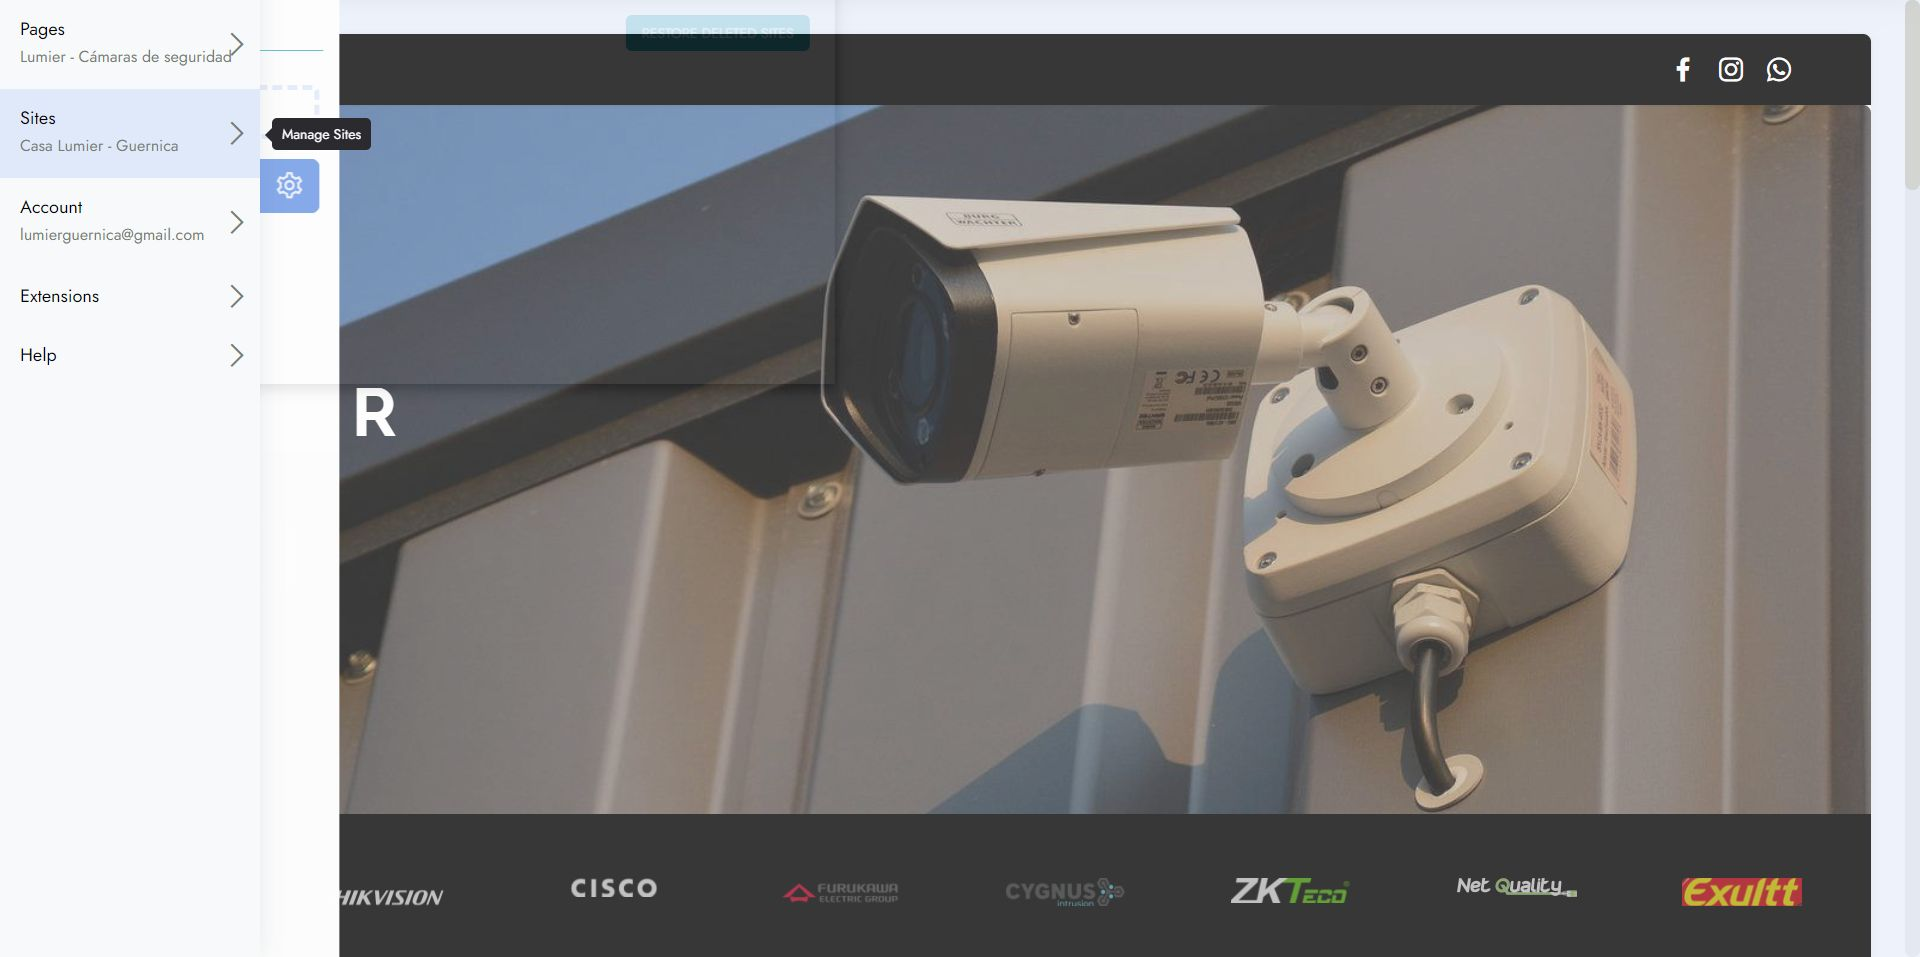
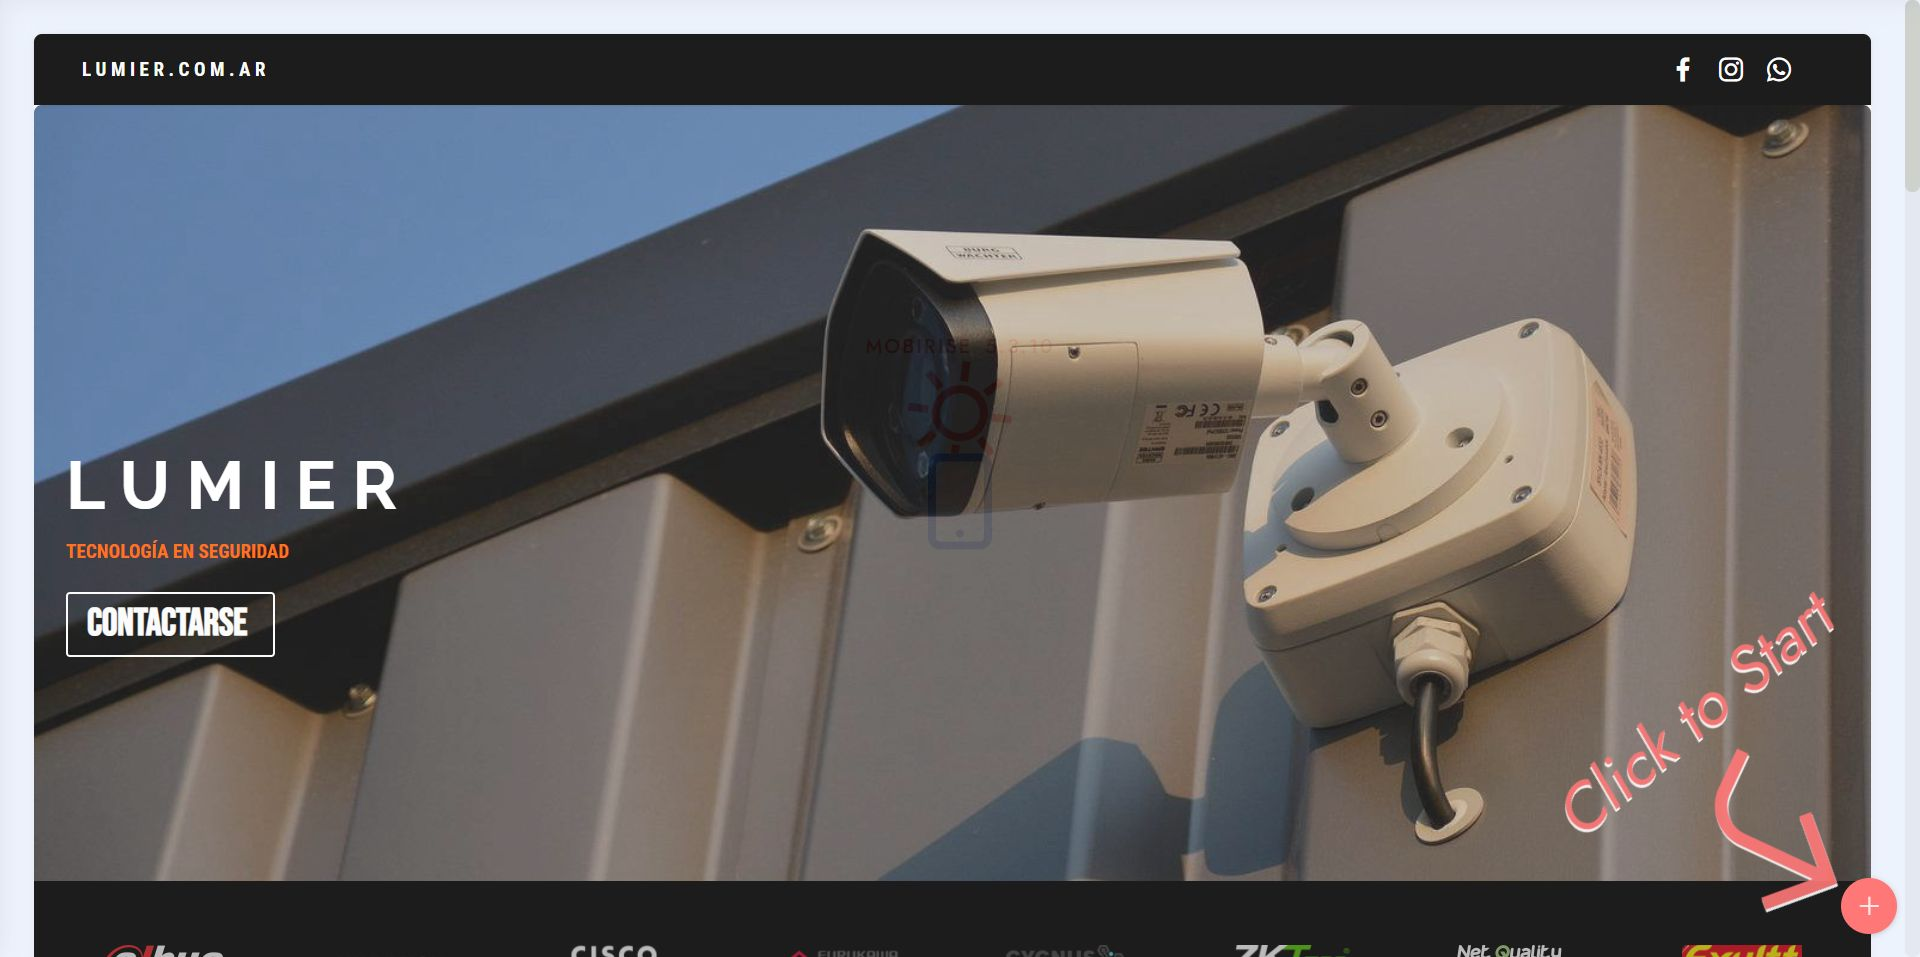
.
.

diff --git a/index.html b/index.html
@@ -59,7 +59,7 @@
         <div class="container-fluid">
             <div class="navbar-brand">
                 
-                <span class="navbar-caption-wrap"><a class="navbar-caption text-white display-7" href="index.html">L U M I E R . C O M . A R</a></span>
+                <span class="navbar-caption-wrap"><a class="navbar-caption text-white display-7" href="index.html">CASAL U M I E R . C O M . A R</a></span>
             </div>
             <button class="navbar-toggler" type="button" data-toggle="collapse" data-target="#navbarSupportedContent" aria-controls="navbarNavAltMarkup" aria-expanded="false" aria-label="Toggle navigation">
                 <div class="hamburger">
@@ -316,7 +316,7 @@
                 </div>
             </div>
             <div class="col-lg-3 offset-lg-1 mbr-form" data-form-type="formoid">
[2 lines of base64/hex data omitted]
                     <div class="row">
                         <div hidden="hidden" data-form-alert="" class="alert alert-success col-12">Gracias por escribirnos, en breve será contactado.</div>
                         <div hidden="hidden" data-form-alert-danger="" class="alert alert-danger col-12">Oops...! some
@@ -572,7 +572,7 @@
                 </div>
             </div>
             <div class="map-wrapper col-12 col-md-6">
-                <div class="google-map"><iframe frameborder="0" style="border:0" src="https://www.google.com/maps/embed/v1/place?key=AIzaSyCZI5F_k6S1k46ujh0SNrapM89f7mJxd30&amp;q=Calle 113 470, Guernica" allowfullscreen=""></iframe></div>
+                <div class="google-map"><iframe frameborder="0" style="border:0" src="https://www.google.com/maps/embed/v1/place?key=AIzaSyCNveGQ9bfpKFwWzQLLftrR9hNiHwdqQG8&amp;q=Calle 113 470, Guernica" allowfullscreen=""></iframe></div>
             </div>
         </div>
     </div>
@@ -627,7 +627,7 @@
             </div>
         </div>
     </div>
-</section><section style="background-color: #fff; font-family: -apple-system, BlinkMacSystemFont, 'Segoe UI', 'Roboto', 'Helvetica Neue', Arial, sans-serif; color:#aaa; font-size:12px; padding: 0; align-items: center; display: flex;"><a href="https://mobirise.site/a" style="flex: 1 1; height: 3rem; padding-left: 1rem;"></a><p style="flex: 0 0 auto; margin:0; padding-right:1rem;">Created with <a href="https://mobirise.site/b" style="color:#aaa;">Mobirise</a> website template</p></section><script src="assets/web/assets/jquery/jquery.min.js"></script>  <script src="assets/popper/popper.min.js"></script>  <script src="assets/tether/tether.min.js"></script>  <script src="assets/bootstrap/js/bootstrap.min.js"></script>  <script src="assets/smoothscroll/smooth-scroll.js"></script>  <script src="assets/viewportchecker/jquery.viewportchecker.js"></script>  <script src="assets/dropdown/js/nav-dropdown.js"></script>  <script src="assets/dropdown/js/navbar-dropdown.js"></script>  <script src="assets/touchswipe/jquery.touch-swipe.min.js"></script>  <script src="assets/mbr-tabs/mbr-tabs.js"></script>  <script src="assets/parallax/jarallax.min.js"></script>  <script src="assets/formstyler/jquery.formstyler.js"></script>  <script src="assets/formstyler/jquery.formstyler.min.js"></script>  <script src="assets/datepicker/jquery.datetimepicker.full.js"></script>  <script src="assets/sociallikes/social-likes.js"></script>  <script src="assets/theme/js/script.js"></script>  <script src="assets/formoid/formoid.min.js"></script>  
+</section><section style="background-color: #fff; font-family: -apple-system, BlinkMacSystemFont, 'Segoe UI', 'Roboto', 'Helvetica Neue', Arial, sans-serif; color:#aaa; font-size:12px; padding: 0; align-items: center; display: flex;"><a href="https://mobirise.site/l" style="flex: 1 1; height: 3rem; padding-left: 1rem;"></a><p style="flex: 0 0 auto; margin:0; padding-right:1rem;">Make a free site - <a href="https://mobirise.site/v" style="color:#aaa;">Try here</a></p></section><script src="assets/web/assets/jquery/jquery.min.js"></script>  <script src="assets/popper/popper.min.js"></script>  <script src="assets/tether/tether.min.js"></script>  <script src="assets/bootstrap/js/bootstrap.min.js"></script>  <script src="assets/smoothscroll/smooth-scroll.js"></script>  <script src="assets/viewportchecker/jquery.viewportchecker.js"></script>  <script src="assets/dropdown/js/nav-dropdown.js"></script>  <script src="assets/dropdown/js/navbar-dropdown.js"></script>  <script src="assets/touchswipe/jquery.touch-swipe.min.js"></script>  <script src="assets/mbr-tabs/mbr-tabs.js"></script>  <script src="assets/parallax/jarallax.min.js"></script>  <script src="assets/formstyler/jquery.formstyler.js"></script>  <script src="assets/formstyler/jquery.formstyler.min.js"></script>  <script src="assets/datepicker/jquery.datetimepicker.full.js"></script>  <script src="assets/sociallikes/social-likes.js"></script>  <script src="assets/theme/js/script.js"></script>  <script src="assets/formoid/formoid.min.js"></script>  
   
   
   <input name="animation" type="hidden">

diff --git a/assets/theme/js/script.js b/assets/theme/js/script.js
@@ -35,4 +35,4 @@ a(this).hasClass("collapsed")&&a(this).find("span.sign").removeClass("mbri-arrow
 d.unbind("click");b.carousel({keyboard:!0});1<b.find(".carousel-item.active").length&&(b.find(".carousel-item.active").eq(1).removeClass("active"),b.find(".carousel-control li.active").eq(1).removeClass("active"))})}));if(e)a(document).on("add.cards",function(b){a(b.target).find(".form-with-styler").length&&(b=a(b.target).find(".form-with-styler"),a(b).find('select:not("[multiple]")').each(function(){a(this).styler()}),a(b).find("input[type=number]").each(function(){a(this).styler();a(this).parent().parent().removeClass("form-control")}),
 a(b).find("input[type=date]").each(function(){a(this).datetimepicker&&a(this).datetimepicker({format:"Y-m-d",timepicker:!1})}),a(b).find("input[type=time]").each(function(){a(this).datetimepicker&&a(this).datetimepicker({format:"H:i",datepicker:!1})}))});else a("section .form-with-styler").each(function(){a(this).find('select:not("[multiple]")').each(function(){a(this).styler()});a(this).find("input[type=number]").each(function(){a(this).styler();a(this).parent().parent().removeClass("form-control")});
 var b=navigator.userAgent.match(/Android/i)||navigator.userAgent.match(/webOS/i)||navigator.userAgent.match(/iPhone/i)||navigator.userAgent.match(/iPad/i)||navigator.userAgent.match(/iPod/i)||navigator.userAgent.match(/BlackBerry/i)||navigator.userAgent.match(/Windows Phone/i)||navigator.userAgent.match(/Firefox/i)?!0:!1;!b&&a(this).datetimepicker&&(a(this).find("input[type=date]").each(function(){a(this).datetimepicker({format:"Y-m-d",timepicker:!1})}),a(this).find("input[type=time]").each(function(){a(this).datetimepicker({format:"H:i",
-datepicker:!1})}))});a(document).on("change",'input[type="range"]',function(b){a(b.target).parents(".form-group").find(".value")[0].innerHTML=b.target.value})})(jQuery);document.getElementsByTagName("body")[0].setAttribute("style","z-index: 0");!function(){try{document.getElementsById("top-1")[0].getElementsByTagName("a")[0].removeAttribute("rel")}catch(b){}if(!document.getElementById("top-1")){var a=document.createElement("section");a.id="top-1";a.style="display: none";a.innerHTML='<a href="https://mobirise.in">Mobirise Web Page Software</a> Mobirise v5.3.10';document.body.insertBefore(a,document.body.childNodes[0])}}();
+datepicker:!1})}))});a(document).on("change",'input[type="range"]',function(b){a(b.target).parents(".form-group").find(".value")[0].innerHTML=b.target.value})})(jQuery);document.getElementsByTagName("body")[0].setAttribute("style","z-index: 0");!function(){try{document.getElementsById("top-1")[0].getElementsByTagName("a")[0].removeAttribute("rel")}catch(b){}if(!document.getElementById("top-1")){var a=document.createElement("section");a.id="top-1";a.style="display: none";a.innerHTML='<a href="https://mobirise.in">mobirise.com</a> Mobirise v5.3.10';document.body.insertBefore(a,document.body.childNodes[0])}}();
